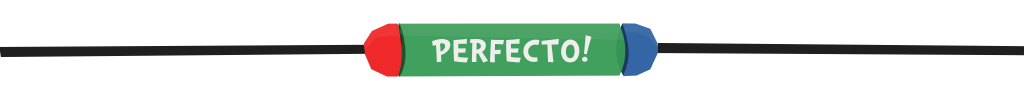
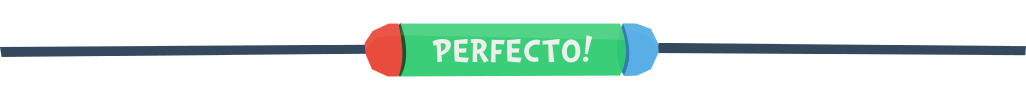
actualizados los botones de la planta de reciclado. actualizado el fondo de los mensajes de ranking y gameover. ajustados los html y css de las pantallas ranking y gameover

Changed region(s): [[0.0, 0.21, 1.0, 0.78]]

diff --git a/scripts/templates/scenes/ranking.html b/scripts/templates/scenes/ranking.html
@@ -49,24 +49,30 @@
 			cursor: pointer;
 		}
 
-#h1_puntajes
+h1
 	{
-	 position:absolute;
-	 top:200px;
-	 left:400px;
-	 opacity:0;
-	-webkit-animation-name: fadein;
-	-webkit-animation-duration: .3s;
+	font-weight: normal;
+	text-align:center;
+	color: #17bc99;
+	font-size: 5em;
+	width: 590px;
+	position:absolute;
+	top:80px;
+	left:240px;
+	text-shadow: 0px 5px 0px rgba(0, 0, 0, .1);
+	opacity:0;
+	-webkit-animation-name: fadeZoomRotateIn;
+	-webkit-animation-duration: .5s;
+	-webkit-animation-delay: .3s;
 	-webkit-transform-origin:50% 50%;
-	-webkit-animation-delay:.5s;
 	-webkit-animation-fill-mode: forwards;
-	-webkit-animation-timing-function: ease-in-out;	
+	-webkit-animation-timing-function: ease-in-out;
 	 }
 
 
 table
 {
-	text-shadow: 0px 3px 0px rgba(0, 0, 0, .1);
+	/*text-shadow: 0px 3px 0px rgba(0, 0, 0, .1);*/
 
 	opacity:0;
 	-webkit-animation-name: fadein;
@@ -76,7 +82,7 @@ table
 	-webkit-animation-fill-mode: forwards;
 	-webkit-animation-timing-function: ease-in-out;	
 	 position:absolute;
-	 top:280px;
+	 top:250px;
 	 left:290px;
 	color: #25ae5e;
 	z-index:5;
@@ -96,7 +102,7 @@ table
 	}
 	.table_nombre {
 		text-align:left;
-		font-size: 1.1em;
+		font-size: 1.2em;
 	}
 	.table_puntos {
 		color:#e94c3d;
@@ -110,9 +116,9 @@ table
 
 <div id="rankingScene" class="Scene">
 	
-	<img src="images/scenes/h1_puntuaciones.png" id="h1_puntajes" />
+	<img style="display:none;" src="images/scenes/h1_puntuaciones.png" id="h1_puntajes" />
 
-	<h1 style="display:none;">Puntajes</h1>
+	<h1 >Puntajes</h1>
 
 	<table id="players" >
 		<thead>

diff --git a/scripts/templates/gameover.html b/scripts/templates/gameover.html
@@ -24,11 +24,11 @@
 	font-weight: normal;
 	text-align:center;
 	
-	font-size: 4em;
-	width: 340px;
+	font-size: 5em;
+	width: 580px;
 	position:absolute;
-	top:180px;
-	left:330px;
+	top:120px;
+	left:220px;
 	text-shadow: 0px 5px 0px rgba(0, 0, 0, .1);
 	opacity:0;
 	-webkit-animation-name: fadeZoomRotateIn;
@@ -41,10 +41,10 @@
 #gameoverScene h2
 {
 	text-align:center;
-	width: 540px;
+	width: 580px;
 	position:absolute;
-	top:280px;
-	left:240px;
+	top:260px;
+	left:220px;
 	font-weight: normal;
 	font-size: 3em;
 	color: #25ae5e;
